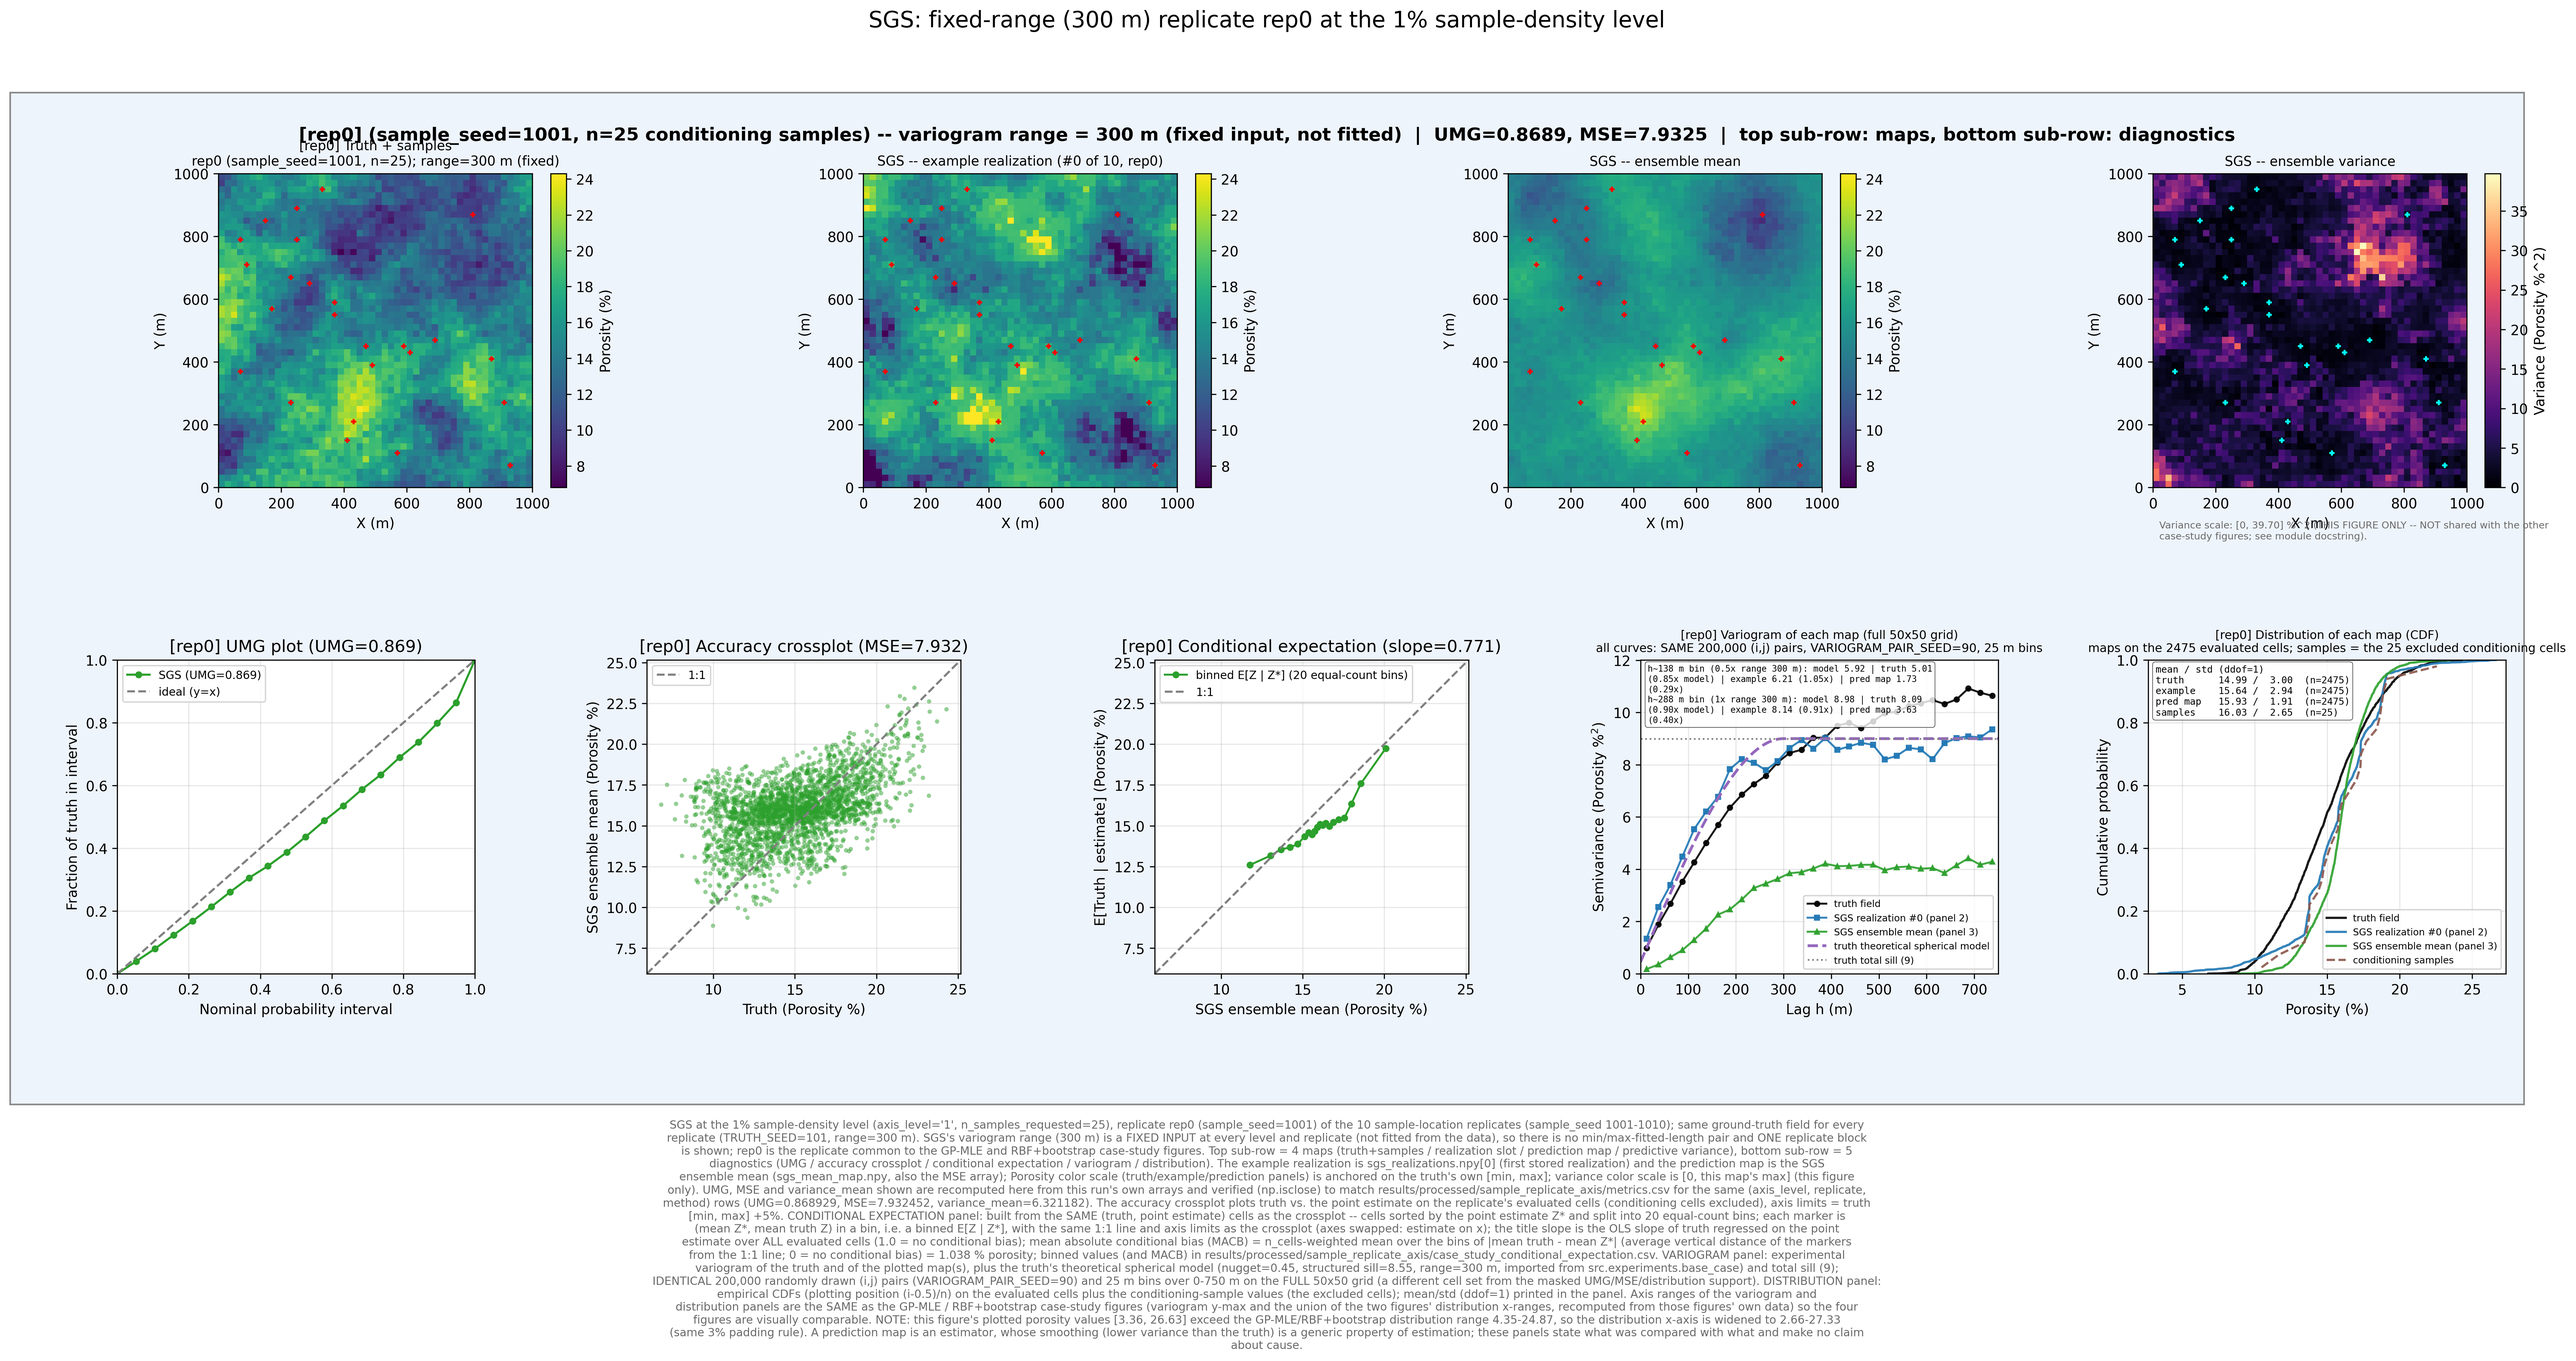
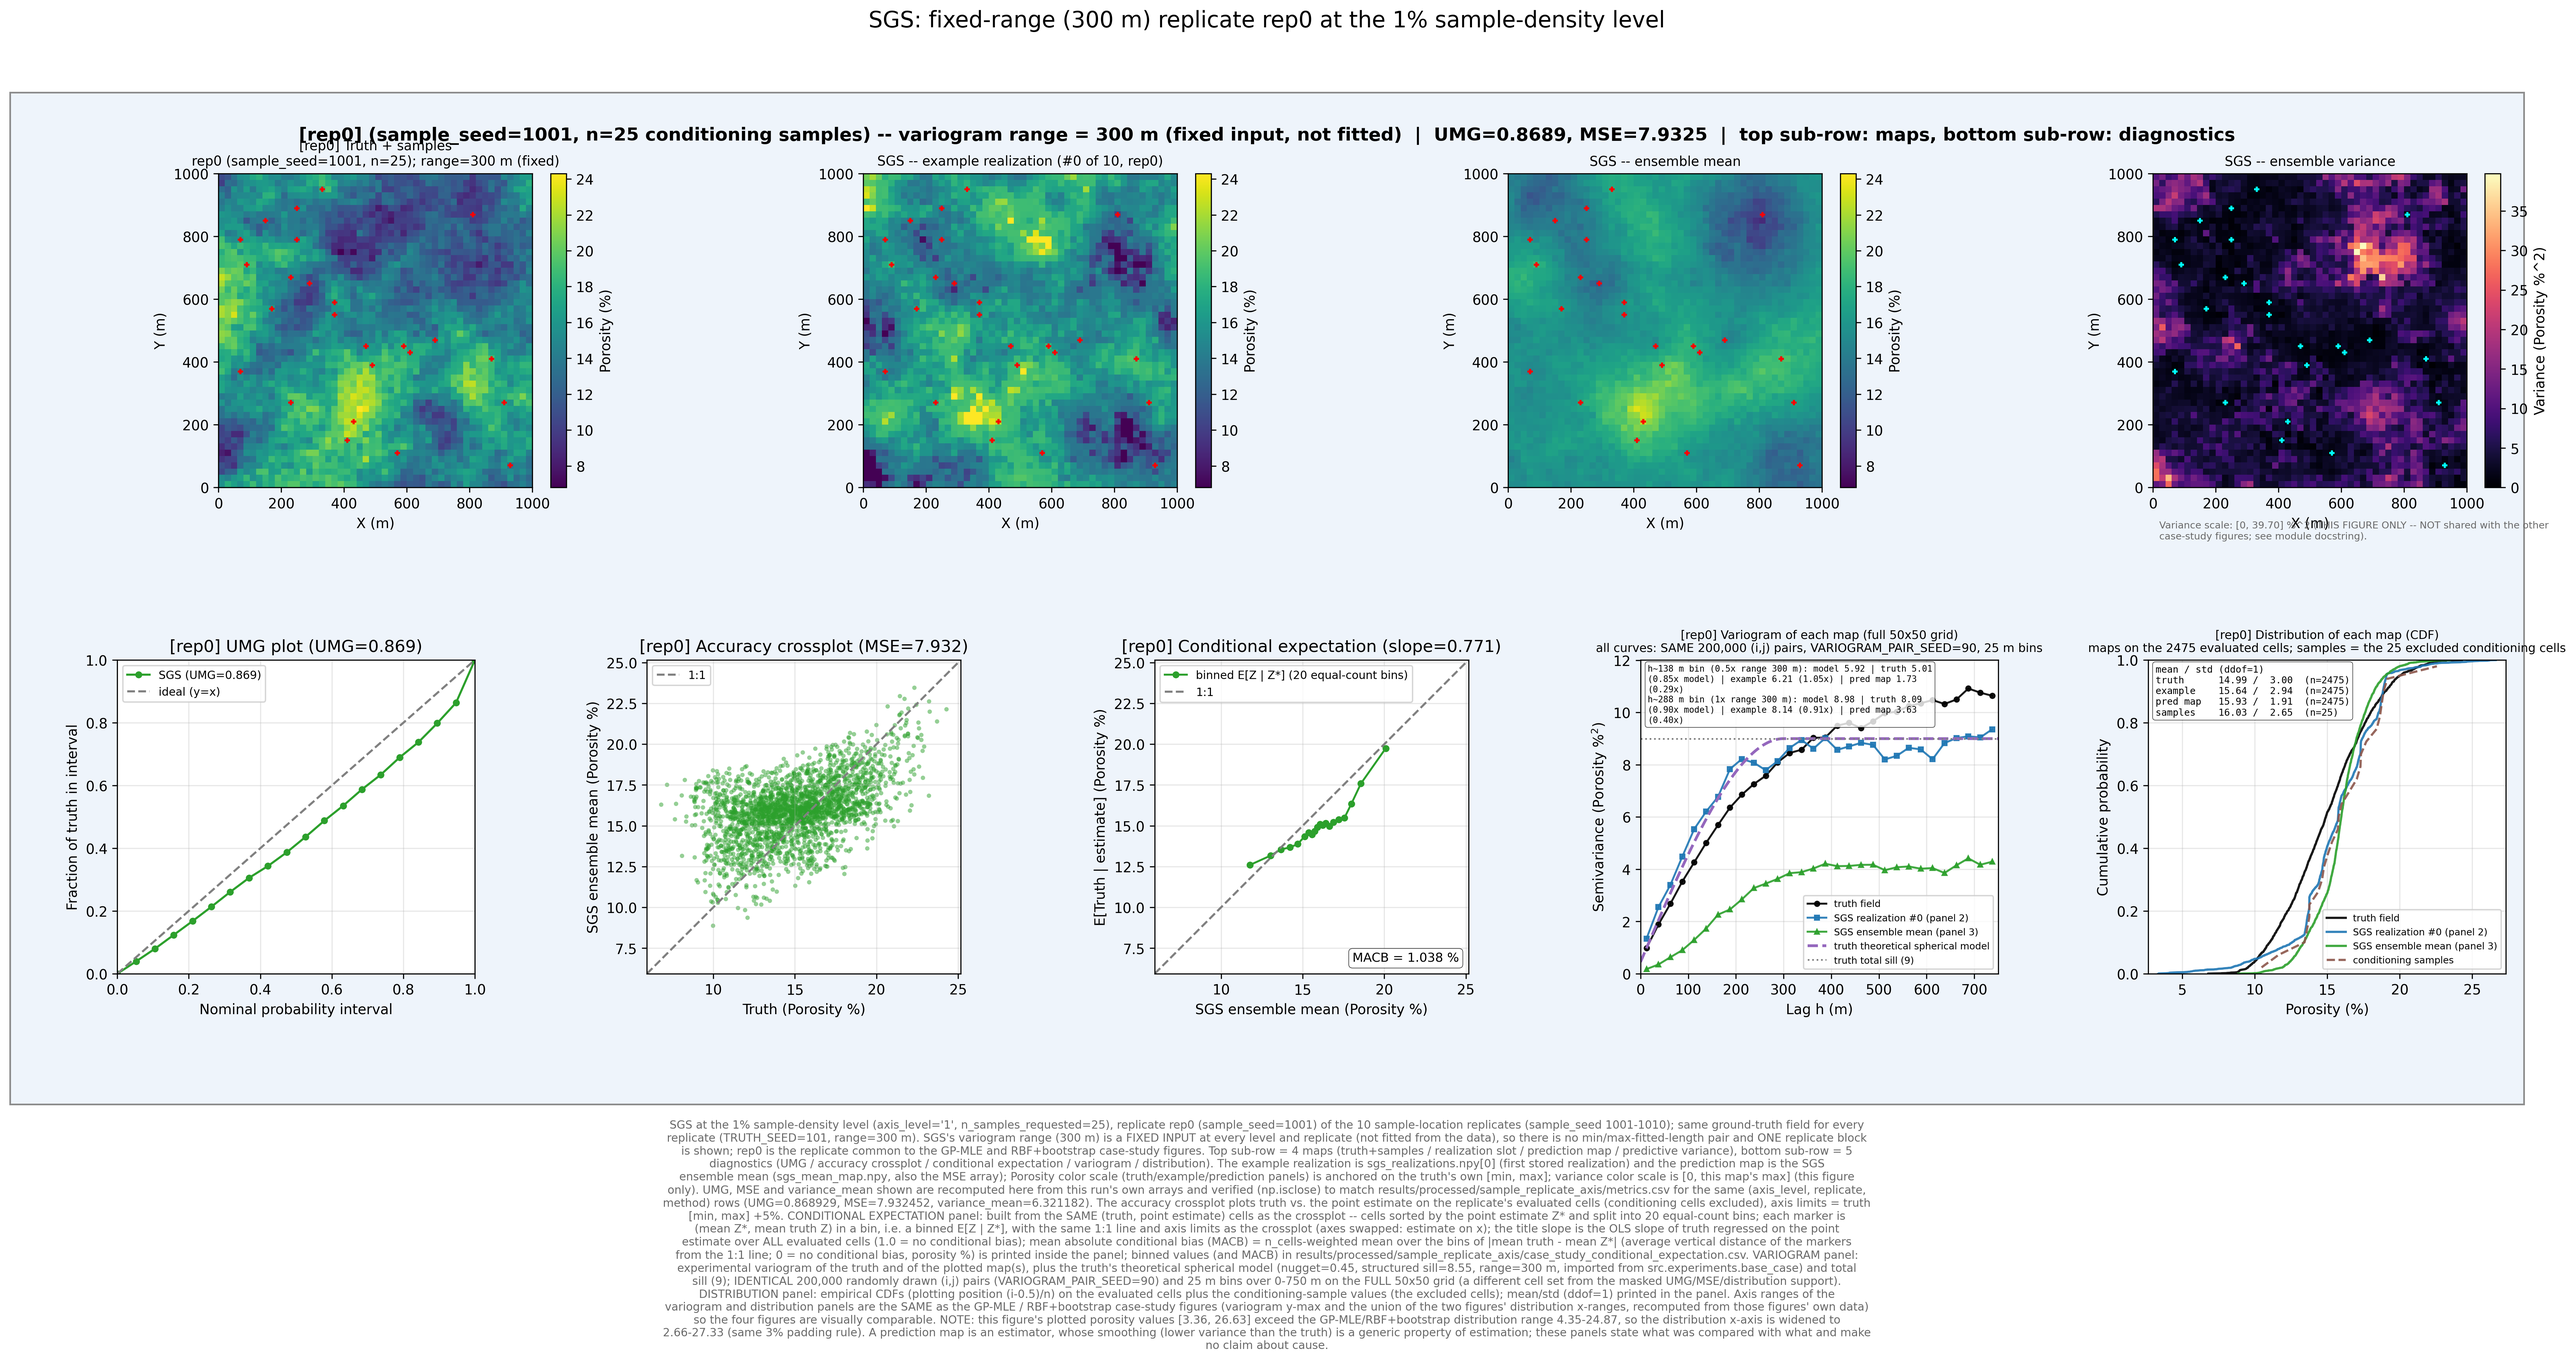
Show MACB inside the conditional-expectation panels instead of the caption, per user request
The user wants the value readable on the plot itself; the caption now keeps only the
MACB definition. Values are unchanged (CSV regenerated identically).

Claude-Session: https://claude.ai/code/session_01Uej1J2EL5yrnPCutxV7VmX

Changed region(s): [[0.2499, 0.9034, 0.7186, 0.9968], [0.5311, 0.6853, 0.5624, 0.7165]]

diff --git a/results/processed/sample_replicate_axis/make_length_case_study_figures.py b/results/processed/sample_replicate_axis/make_length_case_study_figures.py
@@ -111,7 +111,7 @@ until panel 7 was inserted on 2026-10-05; see their own sections below).
      = conditionally unbiased. The title's slope is the OLS slope of Z
      regressed on Z* over ALL evaluated cells (not the binned means) -- the
      standard conditional-bias slope, 1.0 = no conditional bias. The
-     caption also reports the mean absolute conditional bias (MACB,
+     panel also prints the mean absolute conditional bias (MACB,
      ``mean_abs_conditional_bias``): the n_cells-weighted mean over the
      bins of |mean Z - mean Z*| (porosity %, 0 = conditionally unbiased).
      The binning / slope / sanity-check code is ONE helper,
@@ -534,10 +534,11 @@ def mean_abs_conditional_bias(bins_df) -> float:
     return float(np.sum(gap * w) / np.sum(w))
 
 
-def plot_conditional_expectation(ax, bins_df, slope, lims, color, point_estimate_label, tag):
+def plot_conditional_expectation(ax, bins_df, slope, macb, lims, color, point_estimate_label, tag):
     """Draw panel 7 (conditional expectation) on ``ax``: binned E[truth |
     estimate] as a line with markers plus the same 1:1 dashed gray line and
-    the same axis limits / equal aspect as the accuracy crossplot."""
+    the same axis limits / equal aspect as the accuracy crossplot. The mean
+    absolute conditional bias ``macb`` is printed inside the panel."""
     ax.plot(
         bins_df["estimate_mean"], bins_df["truth_mean"], marker="o", markersize=4,
         color=color, linewidth=1.4,
@@ -550,6 +551,10 @@ def plot_conditional_expectation(ax, bins_df, slope, lims, color, point_estimate
     ax.set_ylabel("E[Truth | estimate] (Porosity %)")
     ax.set_title(f"{tag} Conditional expectation (slope={slope:.3f})")
     ax.legend(loc="upper left", fontsize=8)
+    ax.text(
+        0.97, 0.03, f"MACB = {macb:.3f} %", transform=ax.transAxes, ha="right", va="bottom",
+        fontsize=9, bbox=dict(boxstyle="round", facecolor="white", alpha=0.85, linewidth=0.4),
+    )
     ax.grid(alpha=0.3)
     ax.set_aspect("equal", adjustable="box")
 
@@ -973,7 +978,7 @@ def make_case_study_figure(
         row_data["cond_exp_macb"] = ce_macb
         row_data["cond_exp_bins"] = ce_bins
         plot_conditional_expectation(
-            ax_cond_exp, ce_bins, ce_slope, crossplot_lims, method_color,
+            ax_cond_exp, ce_bins, ce_slope, ce_macb, crossplot_lims, method_color,
             point_estimate_label, f"[{row_data['role']}]",
         )
         ce_rows.append(conditional_expectation_rows(
@@ -1153,9 +1158,8 @@ def make_case_study_figure(
         "title is the OLS slope of truth regressed on the point estimate over ALL evaluated cells "
         "(not the binned means); 1.0 = no conditional bias. Mean absolute conditional bias "
         "(MACB) = n_cells-weighted mean over the bins of |mean truth - mean Z*| (average vertical "
-        "distance of the markers from the 1:1 line; 0 = no conditional bias): "
-        f"MIN block {min_row['cond_exp_macb']:.3f} %, MAX block {max_row['cond_exp_macb']:.3f} % "
-        "porosity. Binned values (and MACB) are written to "
+        "distance of the markers from the 1:1 line; 0 = no conditional bias, porosity %) is "
+        "printed inside each panel. Binned values (and MACB) are written to "
         "results/processed/sample_replicate_axis/case_study_conditional_expectation.csv. "
         "VARIOGRAM panel: the experimental variogram of the truth field, of the SAME example "
         "realization/draw shown in the example panel, and of the SAME prediction mean shown in "

diff --git a/results/processed/sample_replicate_axis/make_fixed_range_case_study_figures.py b/results/processed/sample_replicate_axis/make_fixed_range_case_study_figures.py
@@ -588,7 +588,7 @@ def make_fixed_range_figure(method, truth, source_runs, metrics_df, truth_vario,
     )
     ce_macb = mean_abs_conditional_bias(ce_bins)
     plot_conditional_expectation(
-        ax_cond_exp, ce_bins, ce_slope, crossplot_lims, color, rd["point_estimate_label"], tag,
+        ax_cond_exp, ce_bins, ce_slope, ce_macb, crossplot_lims, color, rd["point_estimate_label"], tag,
     )
     ce_rows = conditional_expectation_rows(
         method, rd["replicate_id"], CONDITIONAL_EXPECTATION_ROLE, ce_bins, ce_slope, ce_macb
@@ -760,7 +760,8 @@ def make_fixed_range_figure(method, truth, source_runs, metrics_df, truth_vario,
         "is the OLS slope of truth regressed on the point estimate over ALL evaluated cells (1.0 = "
         "no conditional bias); mean absolute conditional bias (MACB) = n_cells-weighted mean over "
         "the bins of |mean truth - mean Z*| (average vertical distance of the markers from the 1:1 "
-        f"line; 0 = no conditional bias) = {ce_macb:.3f} % porosity; binned values (and MACB) in "
+        "line; 0 = no conditional bias, porosity %) is printed inside the panel; binned values "
+        "(and MACB) in "
         "results/processed/sample_replicate_axis/"
         "case_study_conditional_expectation.csv. VARIOGRAM panel: "
         "experimental variogram of the truth and of the plotted map(s), plus the truth's "
